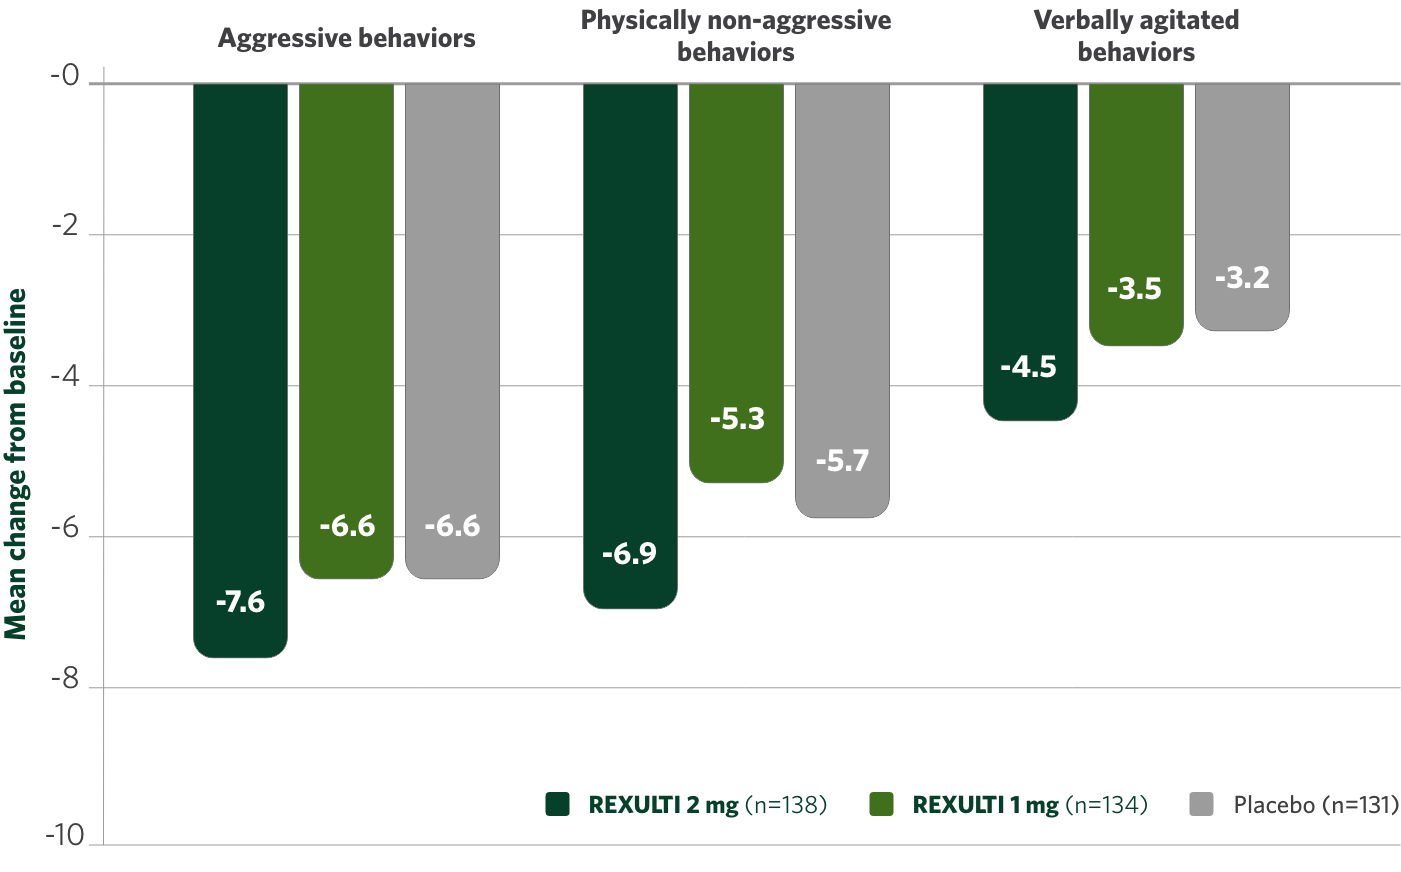
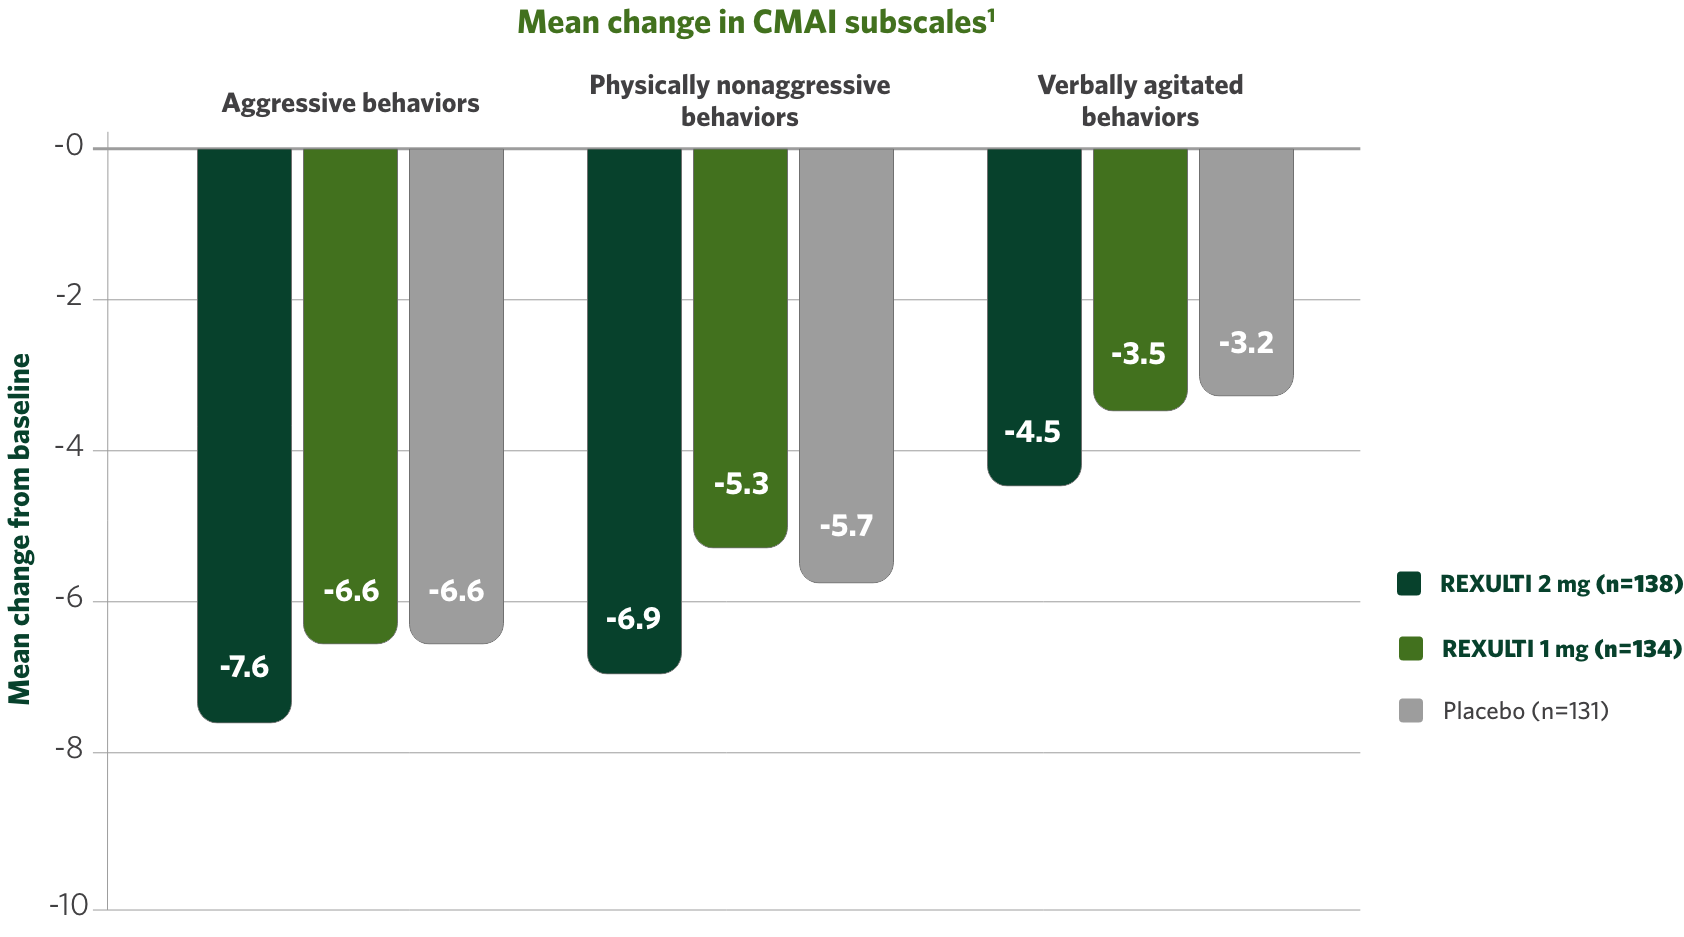
DF-34838 | R1 - R.3.3.3_Study_6

diff --git a/projects/veeva-clm/src/Components/05-pages/R.3.3.3_Study_6/R.3.3.3_Study_6.tsx b/projects/veeva-clm/src/Components/05-pages/R.3.3.3_Study_6/R.3.3.3_Study_6.tsx
@@ -16,14 +16,25 @@ const PageContent = () => {
       </Header>
       <Paragraph
         custom={`mb-24 ${styles.pivotal_trials}`}
-        children='In the pivotal trials, the change in frequency across CMAI subscales was measured as a secondary endpoint'
+        children={
+          <>
+            <strong>Secondary endpoint:</strong> Change from baseline at Week 12
+            in CMAI subscale scores.
+          </>
+        }
       />
-      <Header type='h3' custom={`${styles.h3} mb-14`}>
-        Mean change in CMAI subscales<sup>1</sup>
-      </Header>
       <img className={styles.image_1} src={PageImage} alt='' width='852' />
       <Footer
         custom={styles.footer}
+        footnotes={{
+          data: [
+            {
+              innerText: (
+                <span>CMAI, Cohen-Mansfield Agitation Inventory.</span>
+              ),
+            },
+          ],
+        }}
         references={{
           data: [
             {

diff --git a/projects/veeva-clm/src/Components/05-pages/R.3.3.3_Study_6/R.3.3.3_Study_6.module.scss b/projects/veeva-clm/src/Components/05-pages/R.3.3.3_Study_6/R.3.3.3_Study_6.module.scss
@@ -21,7 +21,7 @@
   img.image_1 {
     position: relative;
     left: 0;
-    width: 690px;
+    width: 840px;
     max-width: none;
   }
 
